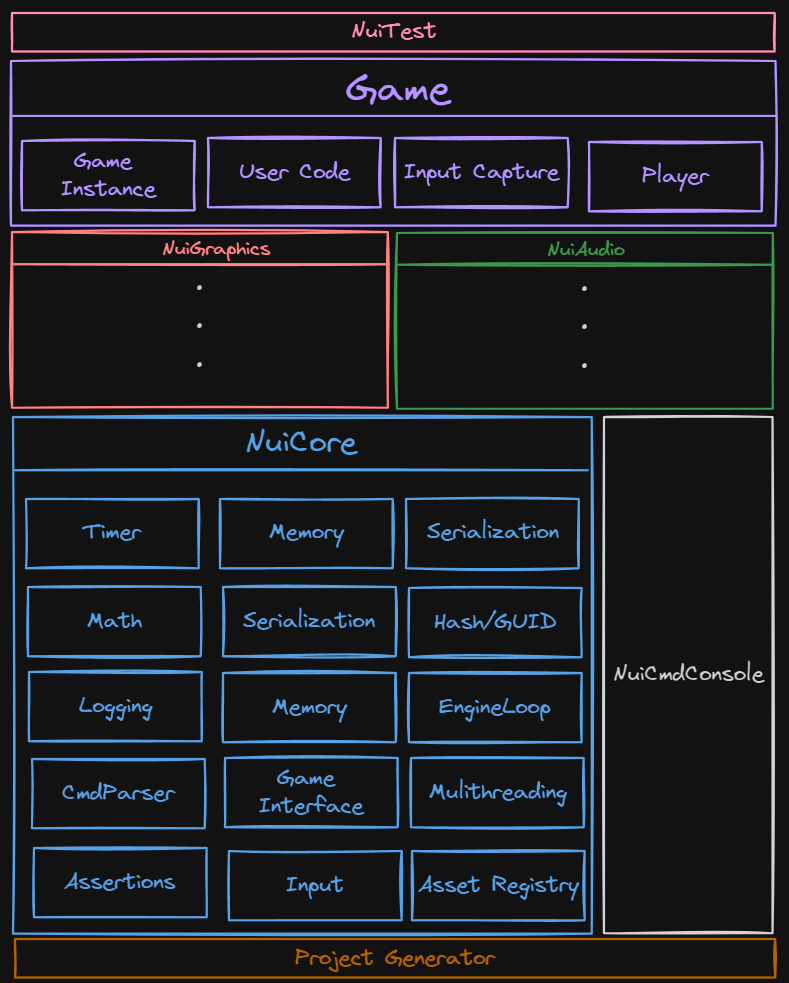
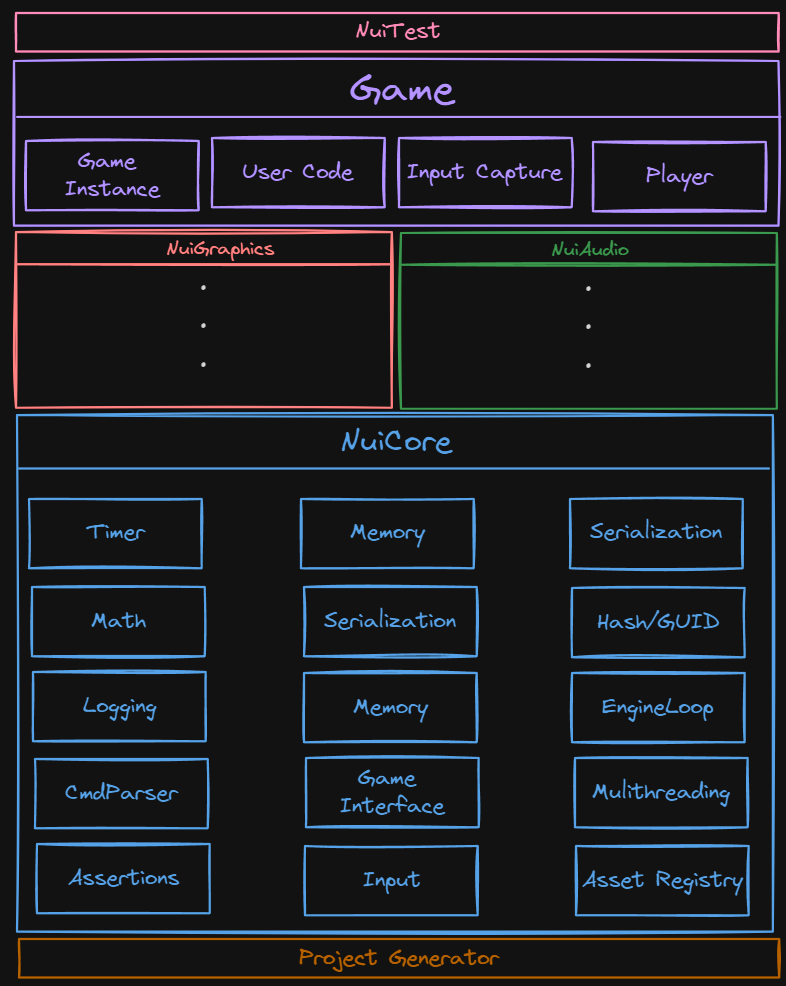
Added MAGE 6

diff --git a/content/posts/mage6/index.md b/content/posts/mage6/index.md
@@ -111,7 +111,9 @@ namespace Nui
 }
 ```
 
-In the constructor of the engine class we will open the log file and make the application (for now). For fun I also like to have timers for my initialization and shutdown functions. Here you can see the use of the `MakeApp` extern (internal) function I defined when making the `AppBase` class above.
+### Engine Initialization
+
+In the constructor of the engine class we will open the log file and make the application (for now). For fun I also like to have timers for my initialization and shutdown functions to show how long it takes. Here you can see the use of the `MakeApp` extern _(internal)_ function I defined when making the `AppBase` class above.
 
 ```cpp
 Engine::Engine()
@@ -136,6 +138,156 @@ Engine::Engine()
     NUI_LOG(Debug, Engine, "Nui Engine initialized successfully in ", timer.GetElapsedSeconds().ToString(), " seconds");
 }
 ```
+
+### Engine Shudown
+
+Similar to the constructor which does the initialization, I have the destructor which handles the engine shutdown procedure. Here, for now, we will simply reset the application unique pointer, which will call the destructor of the application.
+
+```cpp
+Engine::~Engine()
+{
+	Timer timer;
+	timer.Start();
+
+	NUI_LOG(Debug, Engine, "Shutting down Nui Engine...");
+
+	// Shutdown the application
+	m_app.reset();
+
+	timer.Stop();
+	m_engineTimer.Stop();
+
+	NUI_LOG(Debug, Engine, "Nui Engine shut down successfully in ", timer.GetElapsedSeconds().ToString(), " seconds");
+	NUI_LOG(Debug, Engine, "Nui Engine was active for ", m_engineTimer.GetElapsedSeconds().ToString(), " seconds");
+
+	Log::Internal::CloseLogFile();
+}
+```
+
+### Running The Engine
+
+The engine `Run` function is where the main update loop of the entire application will be. Before the while loop, we will call the application `OnInit` and after the while loop we will call the `OnShutdown` on our application. insode the while loop we will process the Win32 window messages, update input, calculate delta/frame time and then update the application using the `Tick` function.
+
+```cpp
+void Engine::Run()
+{
+	m_app->OnInit();
+
+	Timer updateLoop;
+	updateLoop.Start();
+
+	F64 now = 0.0, dt = 0.0, elapsed = 0.0;
+	while (m_isRunning && !m_app->WantsToClose())
+	{
+		now = updateLoop.GetElapsedSeconds();
+
+		Input::Internal::Update();
+
+		[[unlikely]]  // Will only happen on the first frame so we can mark this branch as 'unlikely'
+		if (dt == 0.0f)
+		{
+			continue;  // Skip update on the first frame
+		}
+
+		// Update application
+		m_app->Tick(dt);
+
+		dt = now - elapsed;
+		elapsed = now;
+	}
+
+	updateLoop.Stop();
+
+	m_app->OnShutdown();
+}
+```
+
+## Updating Entry Point
+
+Now that we have all the classes we need, we can go back to `EntryPoint.h` and modify the `WinMain` function to run the Engine class. Here I am making the Engine class a singleton which allows me to access anything I need using the `Singleton<>` template class. But this can be a global or local variable if preferred.
+
+```cpp
+int WINAPI wWinMain(
+	_In_     HINSTANCE hInstance,
+	_In_opt_ HINSTANCE hPrevInstance,
+	_In_     LPWSTR lpCmdLine,
+	_In_     int nShowCmd
+)
+{
+	try
+	{
+		Nui::Singleton<Nui::Engine>::Get().Run();
+		Nui::Singleton<Nui::Engine>::Destroy();
+	}
+	catch (const std::exception& e)
+	{
+		NUI_LOG(Exception, Main, e.what());
+	}
+
+	return 0;
+}
+```
+
+## User Code
+
+For testing the code, I have made a new project called `Testbench`. This is where we will be testing all our code for this engine. In this project I create an application class (this is the user application) called `TestbenchApp` that derives from our previously made `AppBase` class.
+
+```cpp
+// In Testbench/TestApp.h
+
+#pragma once
+#include <Core/App/AppBase.h>
+
+class TestbenchApp : public Nui::AppBase
+{
+public:
+	TestbenchApp();
+	virtual ~TestbenchApp();
+
+	void OnInit() override;
+	void OnShutdown() override;
+};
+```
+
+In the cpp file we will create the implementation of the above functions, for now the `OnInit` and `OnShutdown` functions are empty (apart from the log message that they were called)
+
+```cpp
+// In Testbench/TestApp.cpp
+#include "TestApp.h"
+
+TestbenchApp::TestbenchApp()
+	: Nui::AppBase(L"TestbenchApp", Nui::Window::Style::Windowed, { 1280, 720 })
+{
+}
+
+TestbenchApp::~TestbenchApp()
+{
+}
+
+void TestbenchApp::OnInit()
+{
+	NUI_LOG(Info, TestbenchApp, "Initializing Testbench App");
+}
+
+void TestbenchApp::OnShutdown()
+{
+	NUI_LOG(Info, TestbenchApp, "Shutting down Testbench App");
+}
+```
+
+And finally we can create a new file called `Main.cpp`, where we will include `EntryPoint.h` from the Core project and declare our application.
+
+```cpp
+// In Testbench/Main.cpp
+#include <Core/EntryPoint.h>
+#include "Testbench/TestApp.h"
+
+NUI_DECLARE_APP(TestbenchApp)
+```
+
+## Conclusion
+
+If the above steps were followed, now when you compile and run the program, you should have a window pop up. Which means that we finally have something on the screen! In the next post I will go over custom ECS + event system for our game engine. See ya there 👋.
 
 <div style="display: flex; flex-wrap: wrap; gap: 10px;">
   {{< badge >}}Programming{{< /badge >}}

diff --git a/content/posts/mage1/index.md b/content/posts/mage1/index.md
@@ -42,9 +42,6 @@ The engine will be split into the following modules:
   - Links with all modules
 - **ProjectGenerator**
   - A collection of templates and python scripts used to generate solution and project files
-- **NuiCommandConsole**
-  - A standalone console application that can communicate with the engine
-  - The interprocess communication will be done using pipes
 
 See below a diagram of the planned engine architecture.
 
@@ -63,4 +60,5 @@ With the engine architecture planned, I will next work on generating project fil
 <div style="display: flex; flex-wrap: wrap; gap: 10px;">
   {{< badge >}}Programming{{< /badge >}}
   {{< badge >}}Game Engine{{< /badge >}}
+  {{< badge >}}Software Architecture{{< /badge >}}
 </div>
